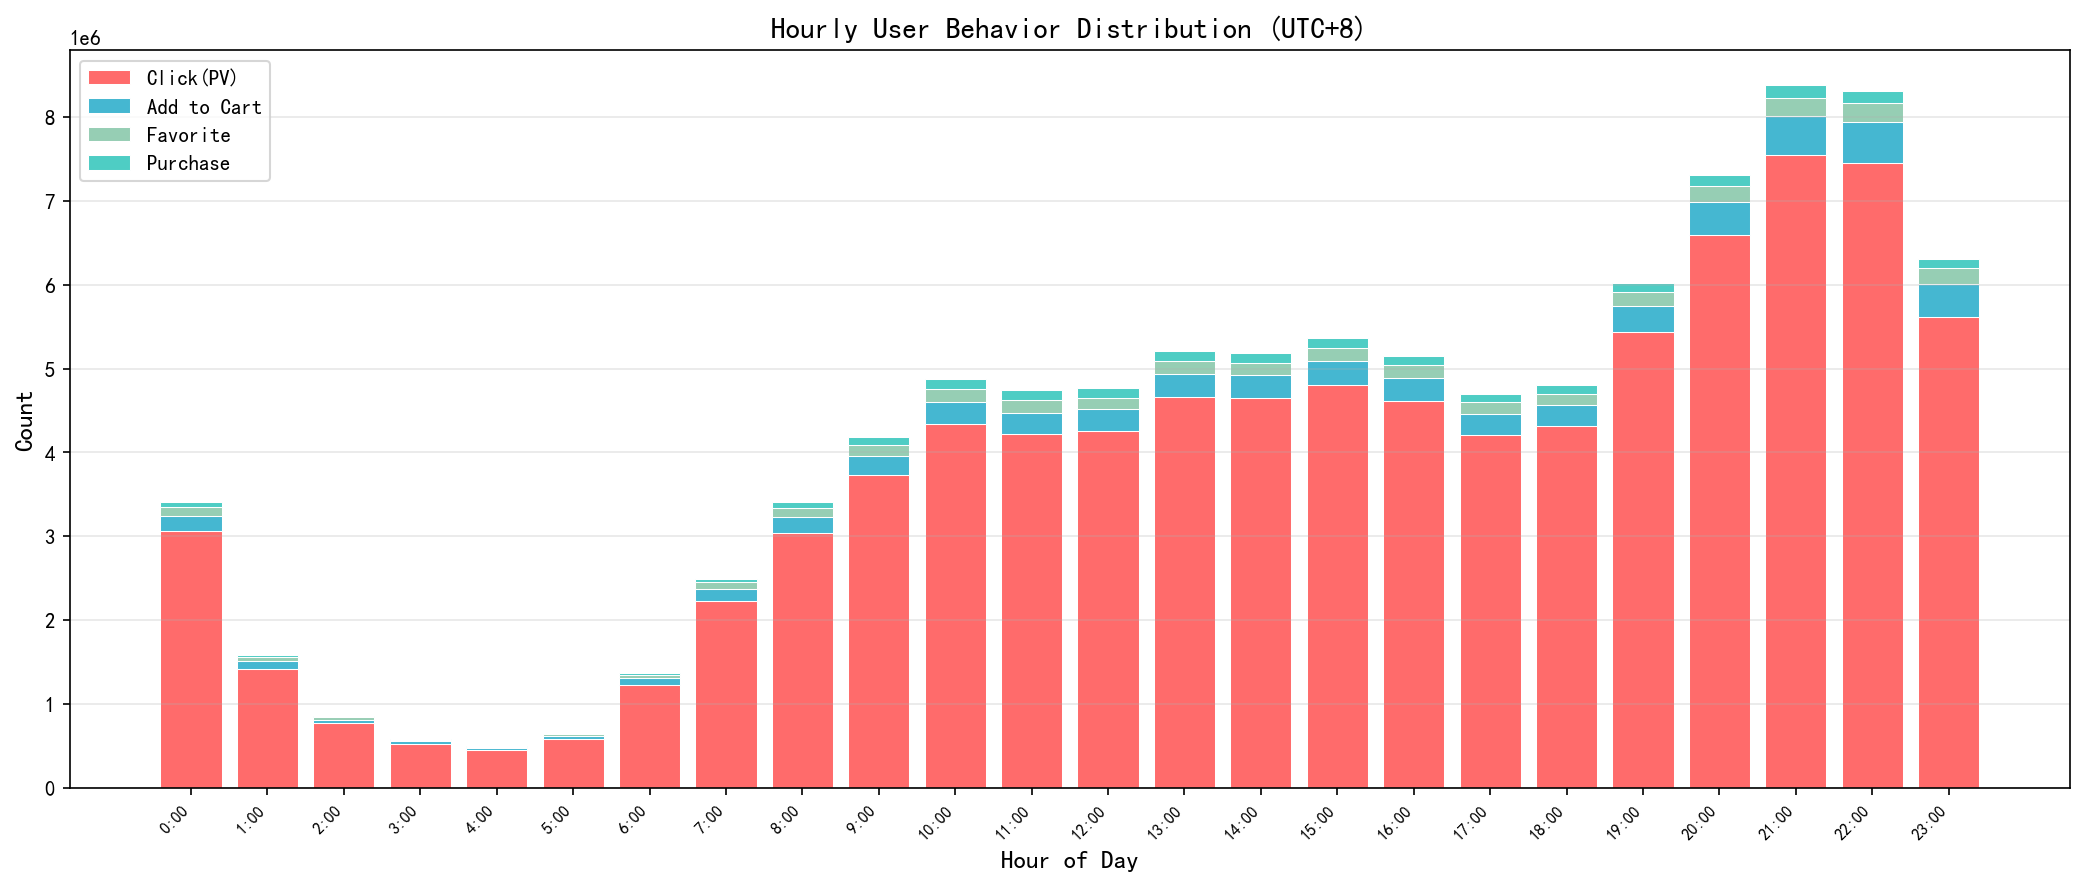
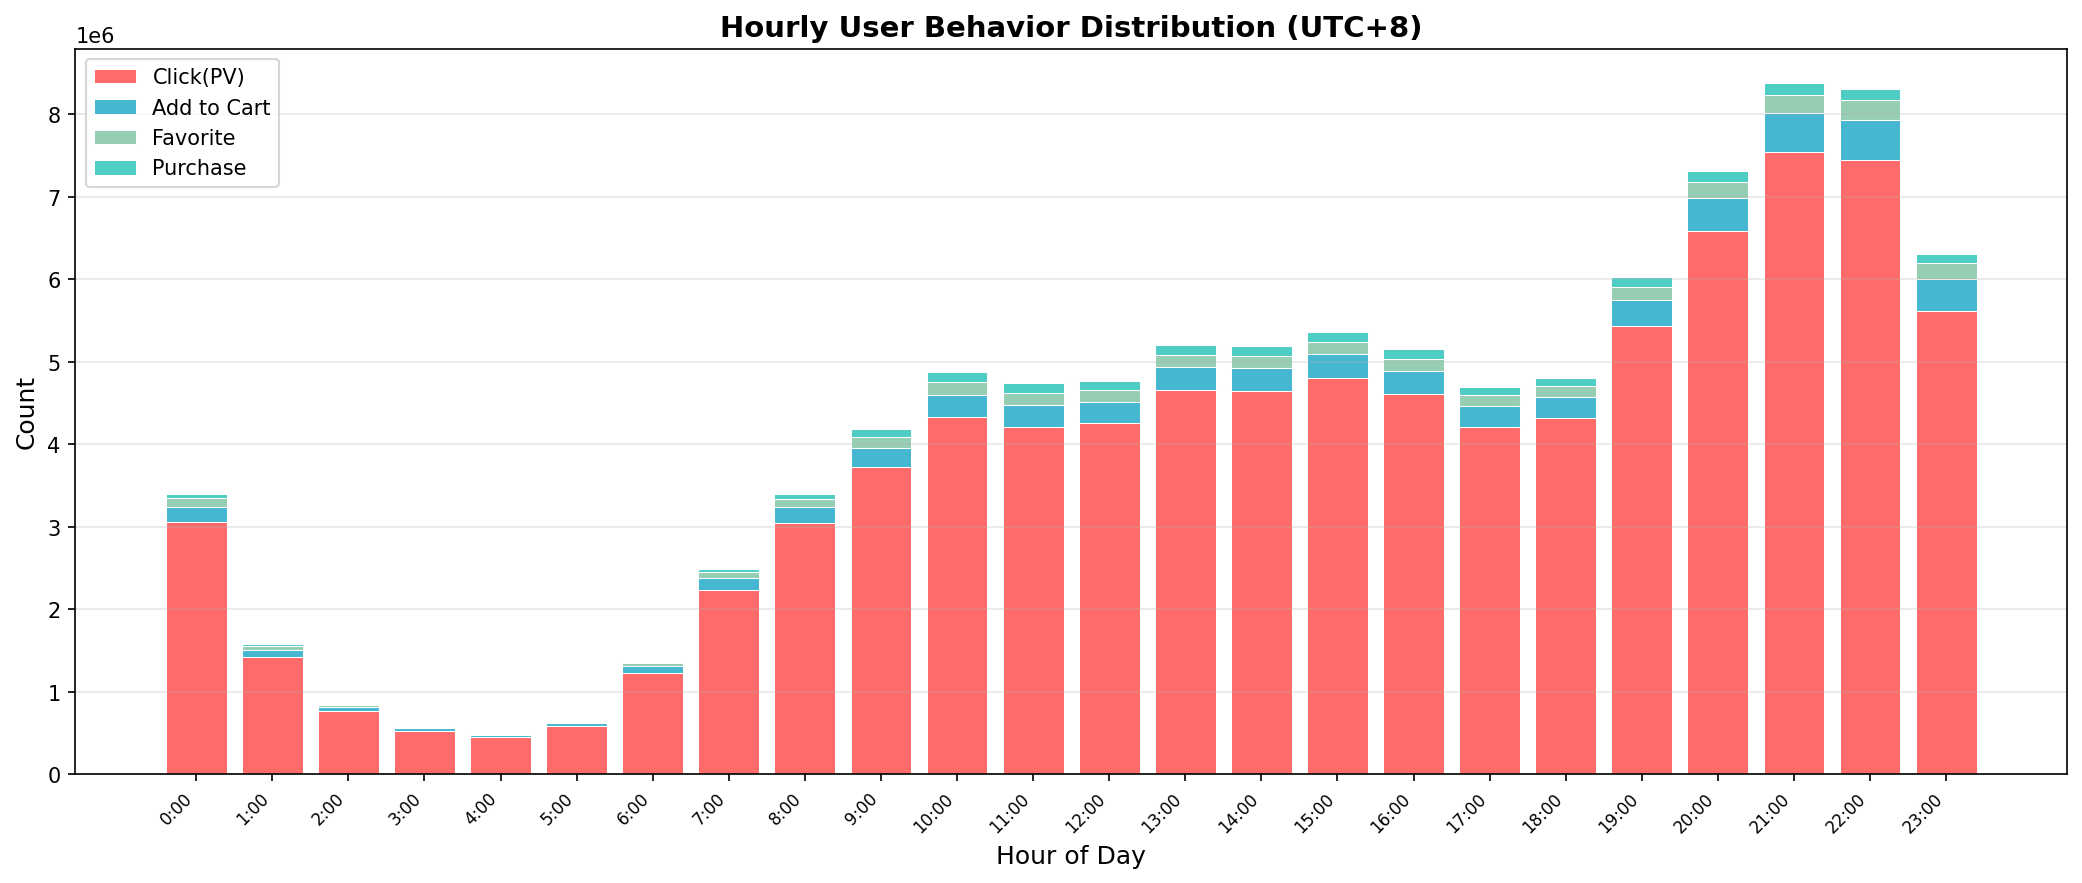
fix: 可视化图表英文化 + 饼图标签布局优化 + dashboard 布局调整

diff --git a/Database/visualizations.py b/Database/visualizations.py
@@ -21,8 +21,7 @@ TIMESTAMP_MIN = 1511539200  # 2017-11-25 00:00:00 UTC+8
 TIMESTAMP_MAX = 1512316800  # 2017-12-04 00:00:00 UTC+8
 WHERE_CLAUSE = f"WHERE timestamp >= {TIMESTAMP_MIN} AND timestamp < {TIMESTAMP_MAX}"
 
-# 设置中文字体
-matplotlib.rcParams['font.sans-serif'] = ['SimHei', 'Microsoft YaHei', 'DejaVu Sans']
+# Use default font (all text is in English)
 matplotlib.rcParams['axes.unicode_minus'] = False
 
 def get_connection():
@@ -52,14 +51,14 @@ def plot_behavior_distribution():
     ''', conn)
     conn.close()
     
-    # 行为类型中文映射
-    type_map = {'pv': '点击(PV)', 'buy': '购买(Buy)', 'cart': '加购(Cart)', 'fav': '收藏(Fav)'}
+    # Behavior type labels (English)
+    type_map = {'pv': 'Page View', 'buy': 'Purchase', 'cart': 'Add to Cart', 'fav': 'Favorite'}
     df['behavior_cn'] = df['behavior_type'].map(type_map)
     
     # 颜色
     colors = ['#FF6B6B', '#4ECDC4', '#45B7D1', '#96CEB4']
     
-    fig, (ax1, ax2) = plt.subplots(1, 2, figsize=(14, 6))
+    fig, (ax1, ax2) = plt.subplots(1, 2, figsize=(14, 7))
     
     # 柱状图
     bars = ax1.bar(df['behavior_cn'], df['count'], color=colors, edgecolor='white', linewidth=1.5)
@@ -74,14 +73,26 @@ def plot_behavior_distribution():
         ax1.text(bar.get_x() + bar.get_width()/2., height,
                 f'{count/1e6:.1f}M', ha='center', va='bottom', fontsize=10, fontweight='bold')
     
-    # 饼图
+    # 饼图 - 小切片分离 + 百分比标签推到外侧，避免重叠
+    explode = [0, 0.08, 0.15, 0.22]  # 小切片依次向外分离
+
     wedges, texts, autotexts = ax2.pie(
-        df['count'], labels=df['behavior_cn'], autopct='%1.1f%%',
-        colors=colors, startangle=90, textprops={'fontsize': 11}
+        df['count'], autopct='%1.1f%%', pctdistance=1.15,
+        explode=explode,
+        colors=colors, startangle=90,
+        textprops={'fontsize': 10, 'fontweight': 'bold'}
     )
+    # 手动调整小切片百分比标签位置，避免重叠且不超过标题
+    for i, autotext in enumerate(autotexts):
+        x, y = autotext.get_position()
+        if i == 2:    # Favorite (2.9%)
+            autotext.set_position((x - 0.25, y - 0.02))
+        elif i == 3:  # Purchase (2.0%)
+            autotext.set_position((x + 0.20, y - 0.15))
+    ax2.legend(wedges, df['behavior_cn'], loc='center left', bbox_to_anchor=(1, 0.5), fontsize=11)
     ax2.set_title('User Behavior Type Distribution (Pie Chart)', fontsize=14, fontweight='bold')
     
-    plt.tight_layout()
+    plt.subplots_adjust(top=0.68)
     filepath = os.path.join(OUTPUT_DIR, '01_behavior_distribution.png')
     plt.savefig(filepath, dpi=150, bbox_inches='tight')
     plt.close()
@@ -463,11 +474,11 @@ def plot_dashboard():
     
     conn.close()
     
-    fig = plt.figure(figsize=(16, 10))
-    fig.suptitle('Taobao User Behavior Dataset - Overview Dashboard', fontsize=16, fontweight='bold', y=0.98)
+    fig = plt.figure(figsize=(16, 8))
+    fig.suptitle('Taobao User Behavior Dataset - Overview Dashboard', fontsize=16, fontweight='bold', y=0.97)
     
     # 顶部: 关键指标卡片
-    ax0 = fig.add_axes([0.05, 0.82, 0.9, 0.12])
+    ax0 = fig.add_axes([0.05, 0.78, 0.9, 0.14])
     ax0.axis('off')
     
     metrics = [
@@ -488,8 +499,8 @@ def plot_dashboard():
         ax0.text(x, 0.25, label, transform=ax0.transAxes,
                 ha='center', va='center', fontsize=9, color='#666')
     
-    # 底部: 行为统计表格
-    ax1 = fig.add_axes([0.1, 0.1, 0.8, 0.6])
+    # 底部: 行为统计表格（紧贴卡片下方）
+    ax1 = fig.add_axes([0.1, 0.52, 0.8, 0.20])
     ax1.axis('off')
     
     type_map = {'pv': 'Click (Page View)', 'buy': 'Purchase', 'cart': 'Add to Cart', 'fav': 'Favorite'}
